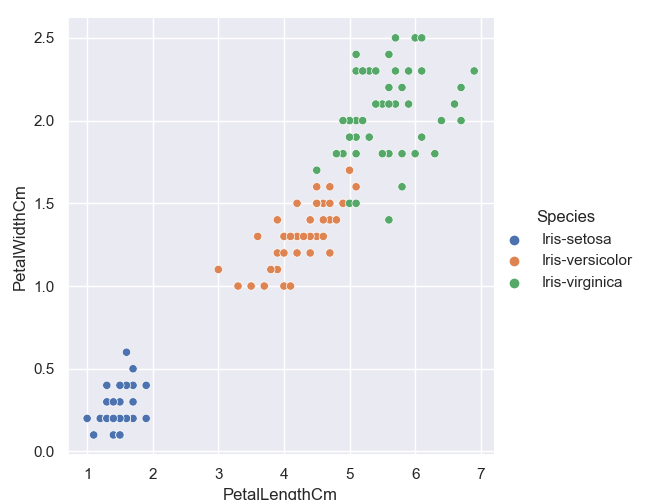
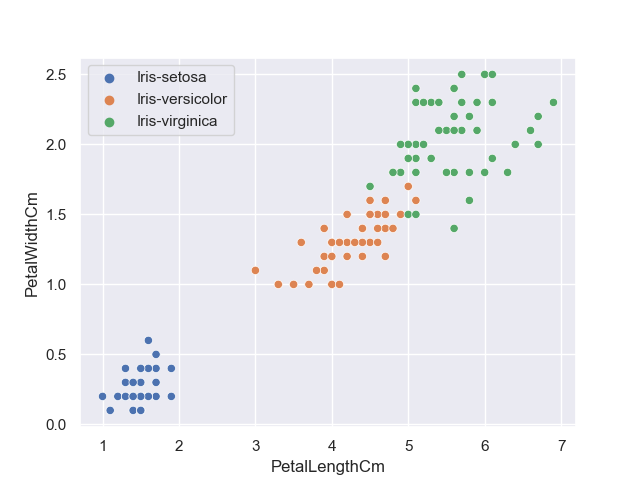
Legend of Scatterplot located in suitable position inside plot grid

diff --git a/analysis.py b/analysis.py
@@ -75,15 +75,16 @@ plt.show ()
 
 #Plotting scatterplot of each pair of variables to png files
 #Scatterplot of Sepal Width and Sepal Length features of the Fisher's Iris data
-sns.scatterplot(data = iris, x="SepalLengthCm", y="SepalWidthCm", hue="Species") # https://seaborn.pydata.org/tutorial/relational.html
+sepal = sns.scatterplot(data = iris, x="SepalLengthCm", y="SepalWidthCm", hue="Species") # https://seaborn.pydata.org/tutorial/relational.html
+sepal.legend(loc=4) #Legend location assigned to bottom right corner inside plot window #https://stackoverflow.com/questions/27019079/move-seaborn-plot-legend-to-a-different-position
 
 #Save this plot as file
 plt.savefig('PNG/Scatterplot_Iris-Sepal.png')   
 plt.show ()
 
 #Scatterplot of Petal Length and Petal Width features of the Fisher's Iris data
-sns.relplot(x="PetalLengthCm", y="PetalWidthCm", hue="Species", legend = "auto", data=iris)
-
+petal = sns.scatterplot(data=iris, x="PetalLengthCm", y="PetalWidthCm", hue="Species")
+petal.legend(loc=2) #Legend location assigned to top left corner
 
 #Save this plot as file
 plt.savefig('PNG/Scatterplot_Iris-Petal.png')   
